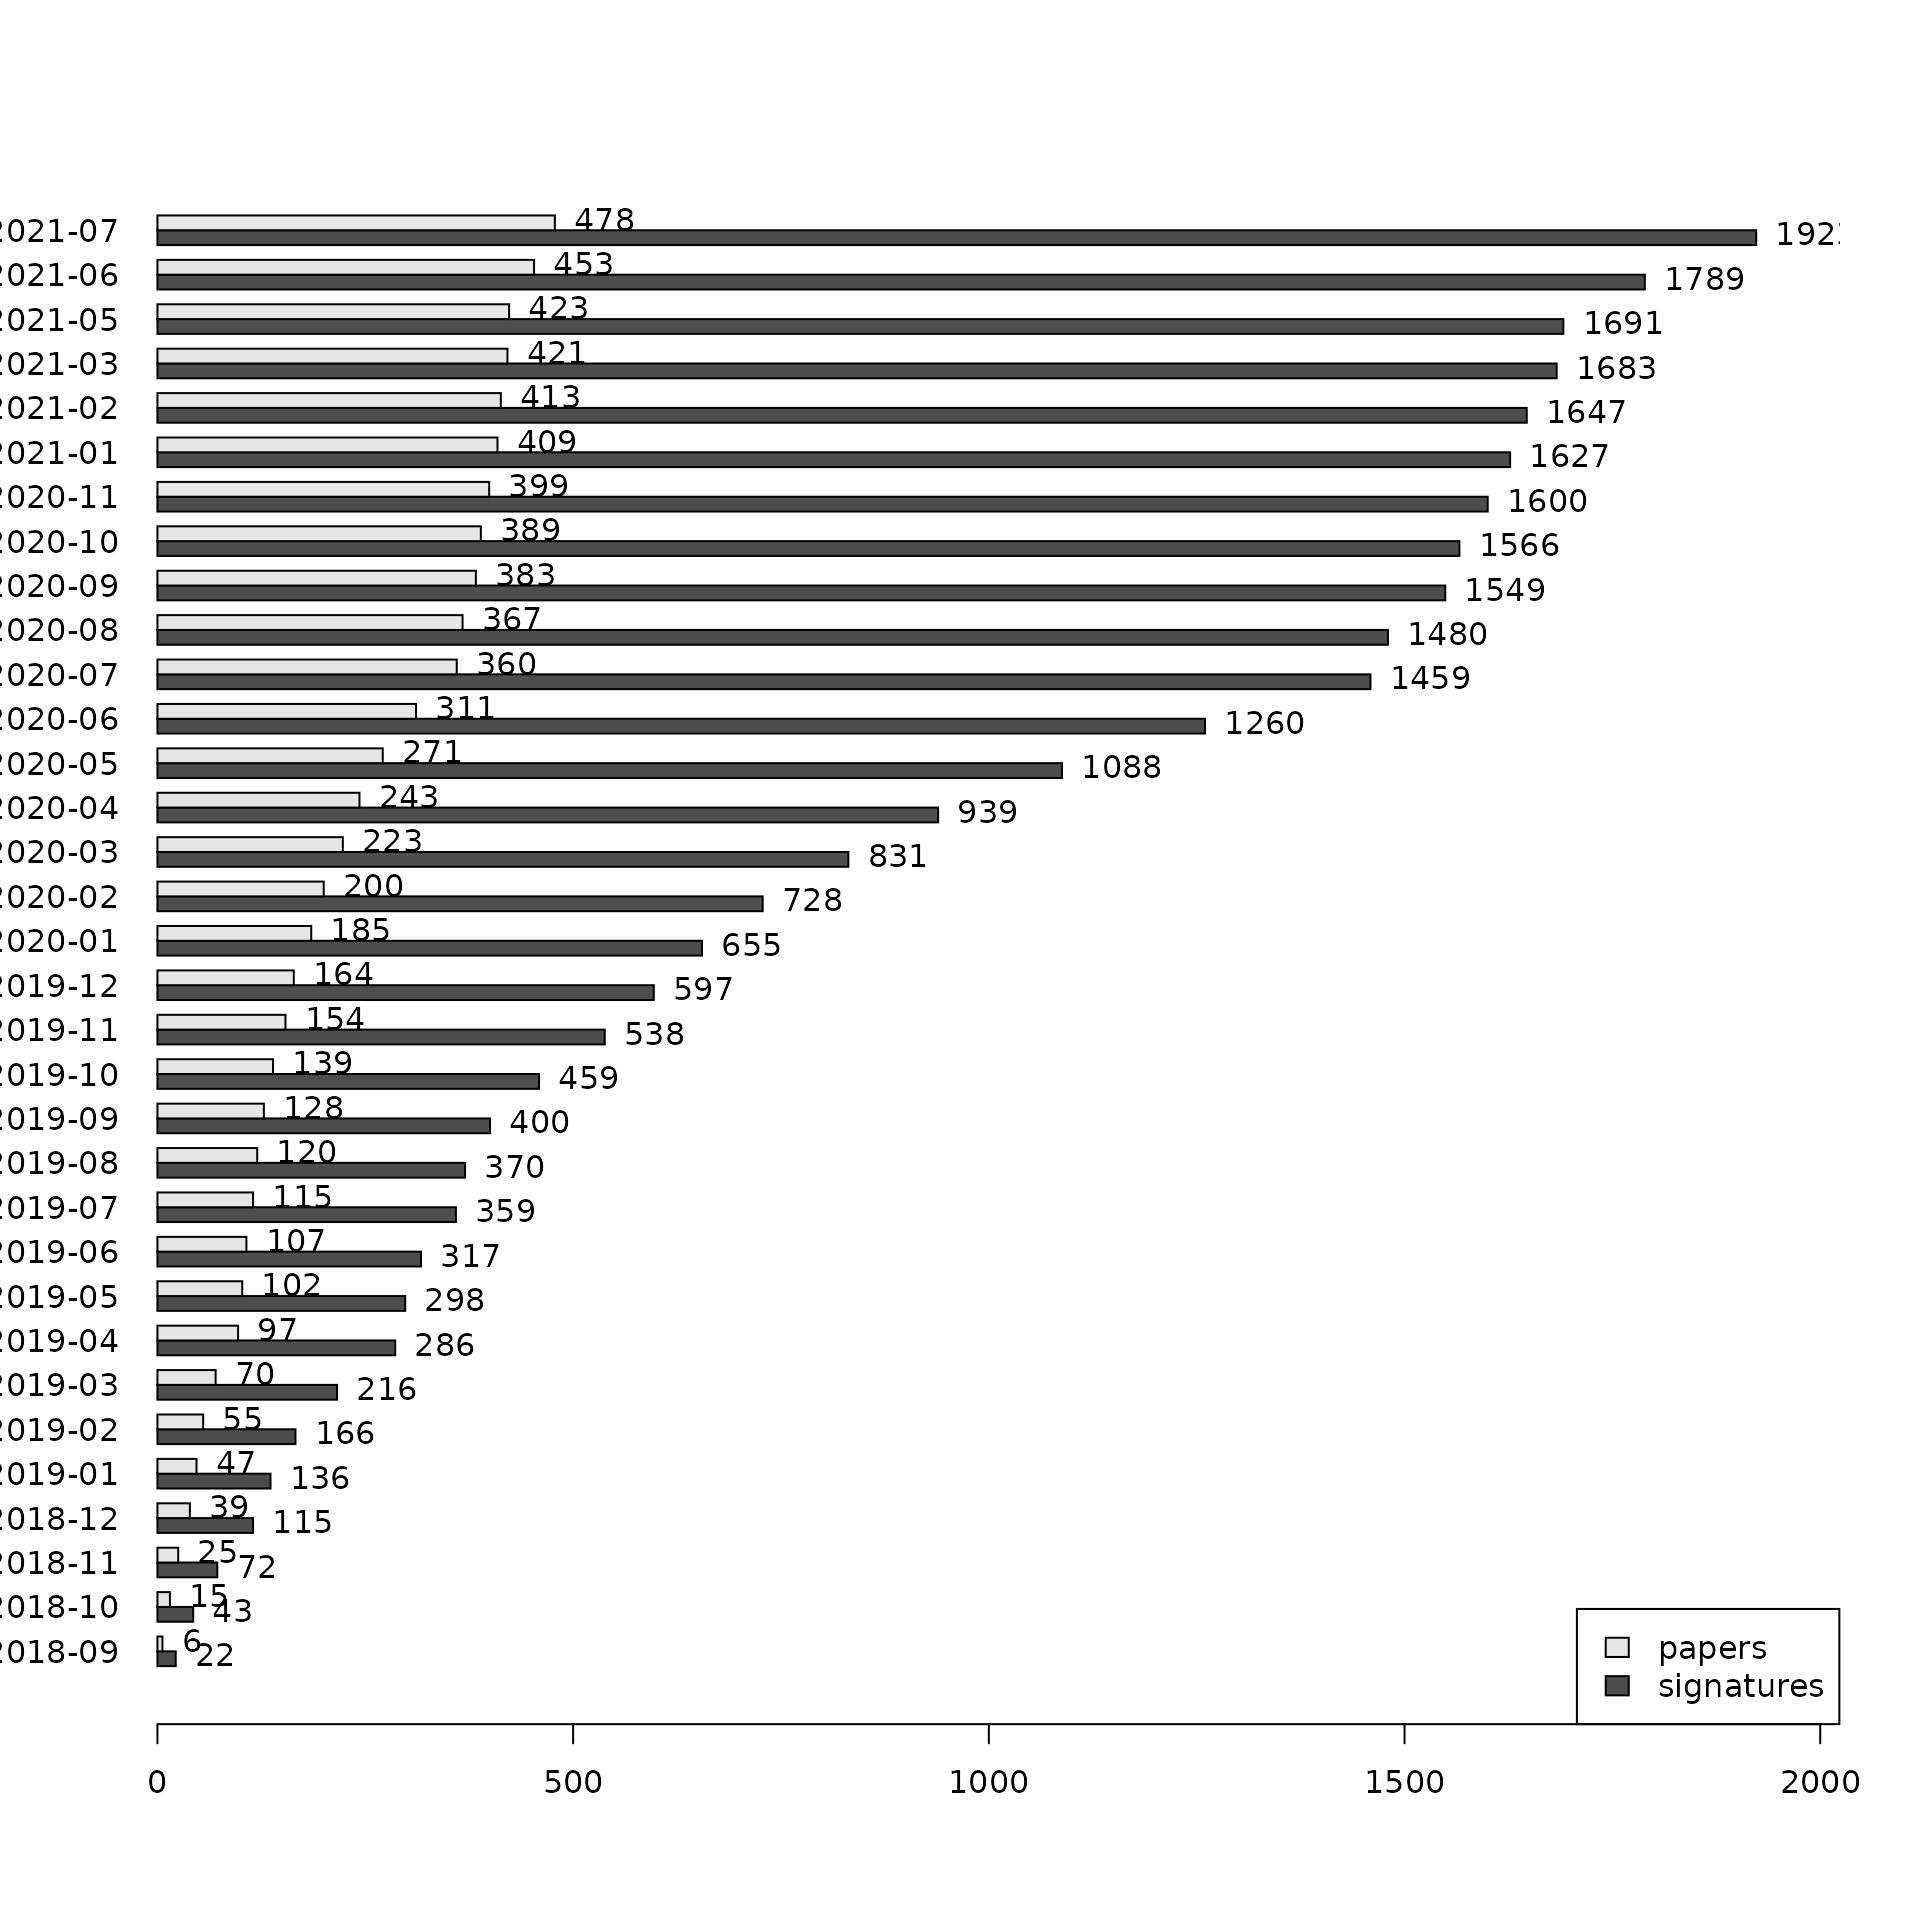
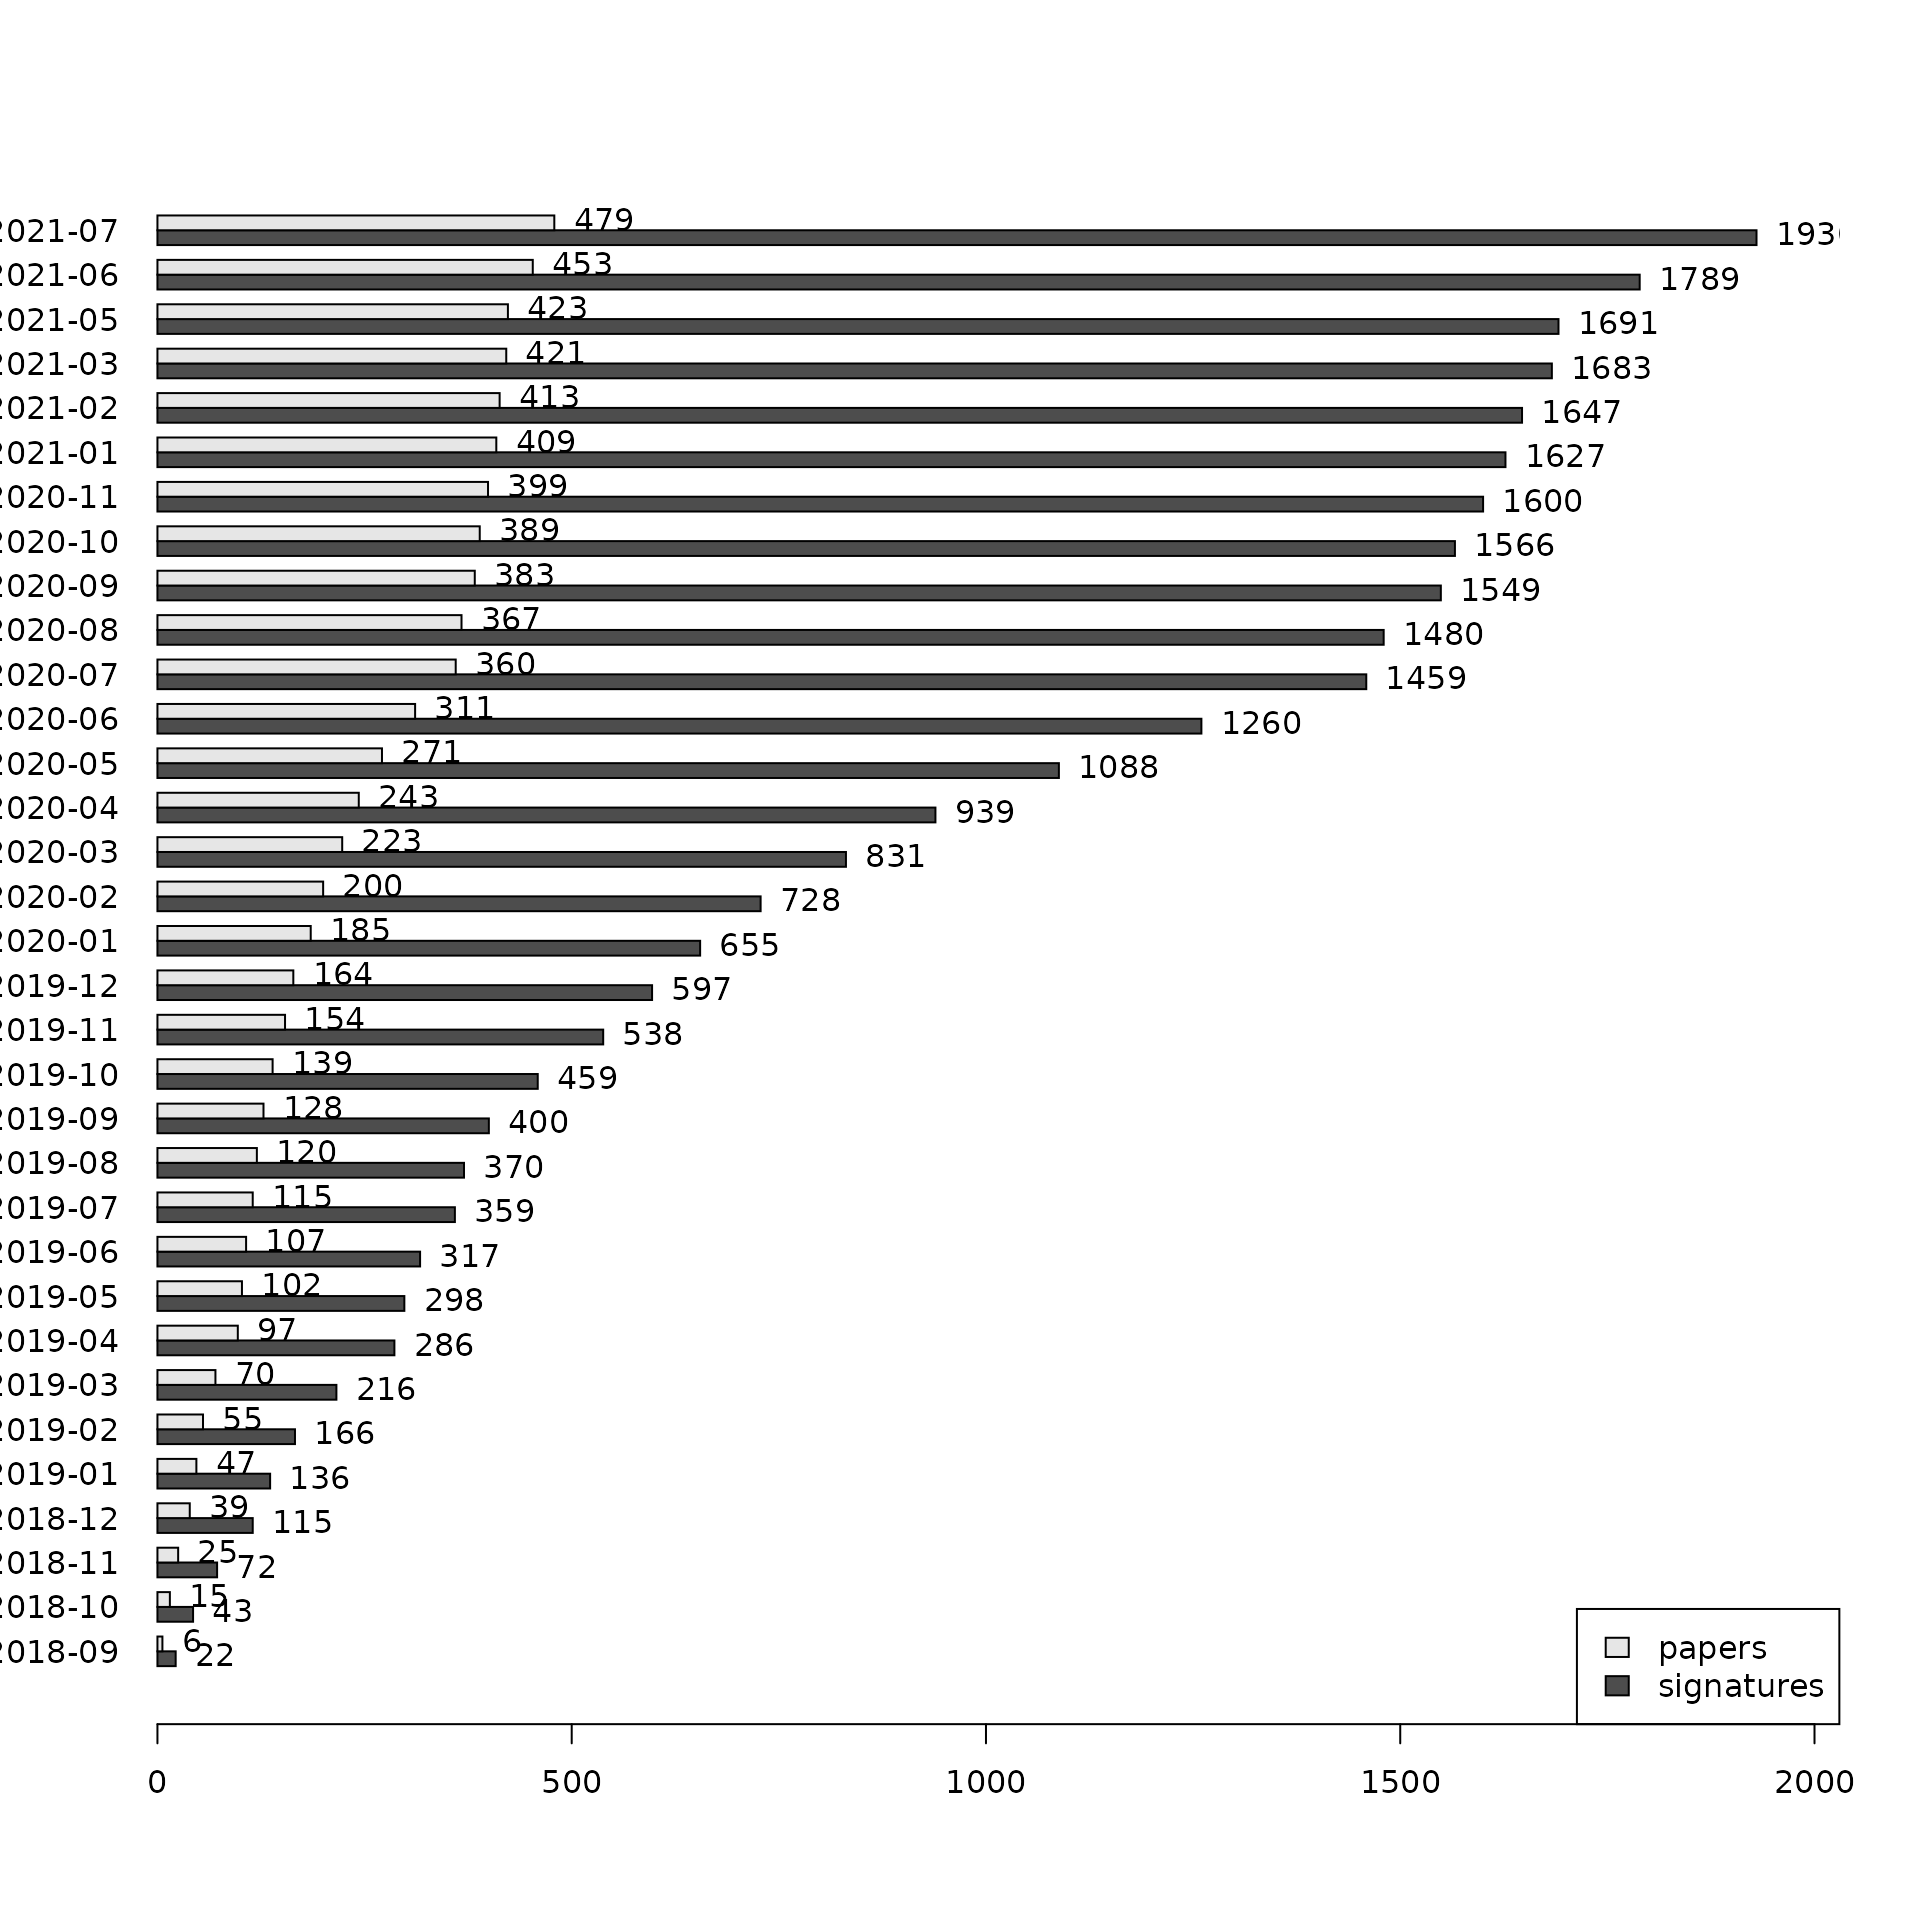
Deploying to gh-pages from  @ 9c0e06229ef63542f44c7cb56ad935cc12b6708c 🚀

diff --git a/articles/BugSigDBStats.html b/articles/BugSigDBStats.html
@@ -85,7 +85,7 @@
 <p>Get bulk export from bugsigdb.org:</p>
 <div class="sourceCode" id="cb2"><pre class="downlit">
 <span class="va">full.dat</span> <span class="op">&lt;-</span> <span class="fu">bugsigdbr</span><span class="fu">::</span><span class="fu"><a href="https://rdrr.io/pkg/bugsigdbr/man/importBugSigDB.html">importBugSigDB</a></span><span class="op">(</span><span class="op">)</span></pre></div>
-<pre><code>## using temporary cache /tmp/Rtmp7vJxl3/BiocFileCache</code></pre>
+<pre><code>## using temporary cache /tmp/RtmpPPffJx/BiocFileCache</code></pre>
 <pre><code>## 
 ## ── Column specification ────────────────────────────────────────────────────────
 ## cols(
@@ -129,7 +129,7 @@
 ## )</code></pre>
 <div class="sourceCode" id="cb7"><pre class="downlit">
 <span class="fu"><a href="https://rdrr.io/r/base/dim.html">dim</a></span><span class="op">(</span><span class="va">full.dat</span><span class="op">)</span></pre></div>
-<pre><code>## [1] 1992   45</code></pre>
+<pre><code>## [1] 1996   45</code></pre>
 <div class="sourceCode" id="cb9"><pre class="downlit">
 <span class="fu"><a href="https://rdrr.io/r/base/colnames.html">colnames</a></span><span class="op">(</span><span class="va">full.dat</span><span class="op">)</span></pre></div>
 <pre><code>##  [1] "Study"                      "Study design"              
@@ -166,7 +166,7 @@
 <pre><code>## [1] 491</code></pre>
 <div class="sourceCode" id="cb13"><pre class="downlit">
 <span class="fu"><a href="https://rdrr.io/r/base/nrow.html">nrow</a></span><span class="op">(</span><span class="va">full.dat</span><span class="op">)</span></pre></div>
-<pre><code>## [1] 1992</code></pre>
+<pre><code>## [1] 1996</code></pre>
 <p>Publication date of the curated papers:</p>
 <div class="sourceCode" id="cb15"><pre class="downlit">
 <span class="va">pmids</span> <span class="op">&lt;-</span> <span class="va">pmids</span><span class="op">[</span><span class="op">!</span><span class="fu"><a href="https://rdrr.io/r/base/NA.html">is.na</a></span><span class="op">(</span><span class="va">pmids</span><span class="op">)</span><span class="op">]</span>
@@ -196,12 +196,12 @@
 <span class="co"># more realistic estimation of number of signatures curated</span>
 <span class="va">dat</span> <span class="op">&lt;-</span> <span class="fu"><a href="../reference/stripEmptySignatures.html">stripEmptySignatures</a></span><span class="op">(</span><span class="va">full.dat</span><span class="op">)</span>
 <span class="fu"><a href="https://rdrr.io/r/base/nrow.html">nrow</a></span><span class="op">(</span><span class="va">dat</span><span class="op">)</span></pre></div>
-<pre><code>## [1] 1923</code></pre>
+<pre><code>## [1] 1930</code></pre>
 <p>Papers containing only empty UP and DOWN signatures (under curation?):</p>
 <div class="sourceCode" id="cb20"><pre class="downlit">
 <span class="fu"><a href="https://rdrr.io/r/base/sets.html">setdiff</a></span><span class="op">(</span><span class="va">pmids</span>, <span class="fu"><a href="https://rdrr.io/r/base/unique.html">unique</a></span><span class="op">(</span><span class="va">dat</span><span class="op">[</span>,<span class="st">"PMID"</span><span class="op">]</span><span class="op">)</span><span class="op">)</span></pre></div>
 <pre><code>##  [1] 32295867 32937864 32415070 32728349 33903709 33851179 33833065 31910227
-##  [9] 33603076 31917273 22986438 32839514 30714619</code></pre>
+##  [9] 33603076 31917273 22986438 30714619</code></pre>
 <p>Progress over time:</p>
 <div class="sourceCode" id="cb22"><pre class="downlit">
 <span class="va">dat</span><span class="op">[</span>,<span class="st">"Curated date"</span><span class="op">]</span> <span class="op">&lt;-</span> <span class="fu"><a href="https://rdrr.io/r/base/character.html">as.character</a></span><span class="op">(</span><span class="fu">lubridate</span><span class="fu">::</span><span class="fu"><a href="http://lubridate.tidyverse.org/reference/ymd.html">dmy</a></span><span class="op">(</span><span class="va">dat</span><span class="op">[</span>,<span class="st">"Curated date"</span><span class="op">]</span><span class="op">)</span><span class="op">)</span>
